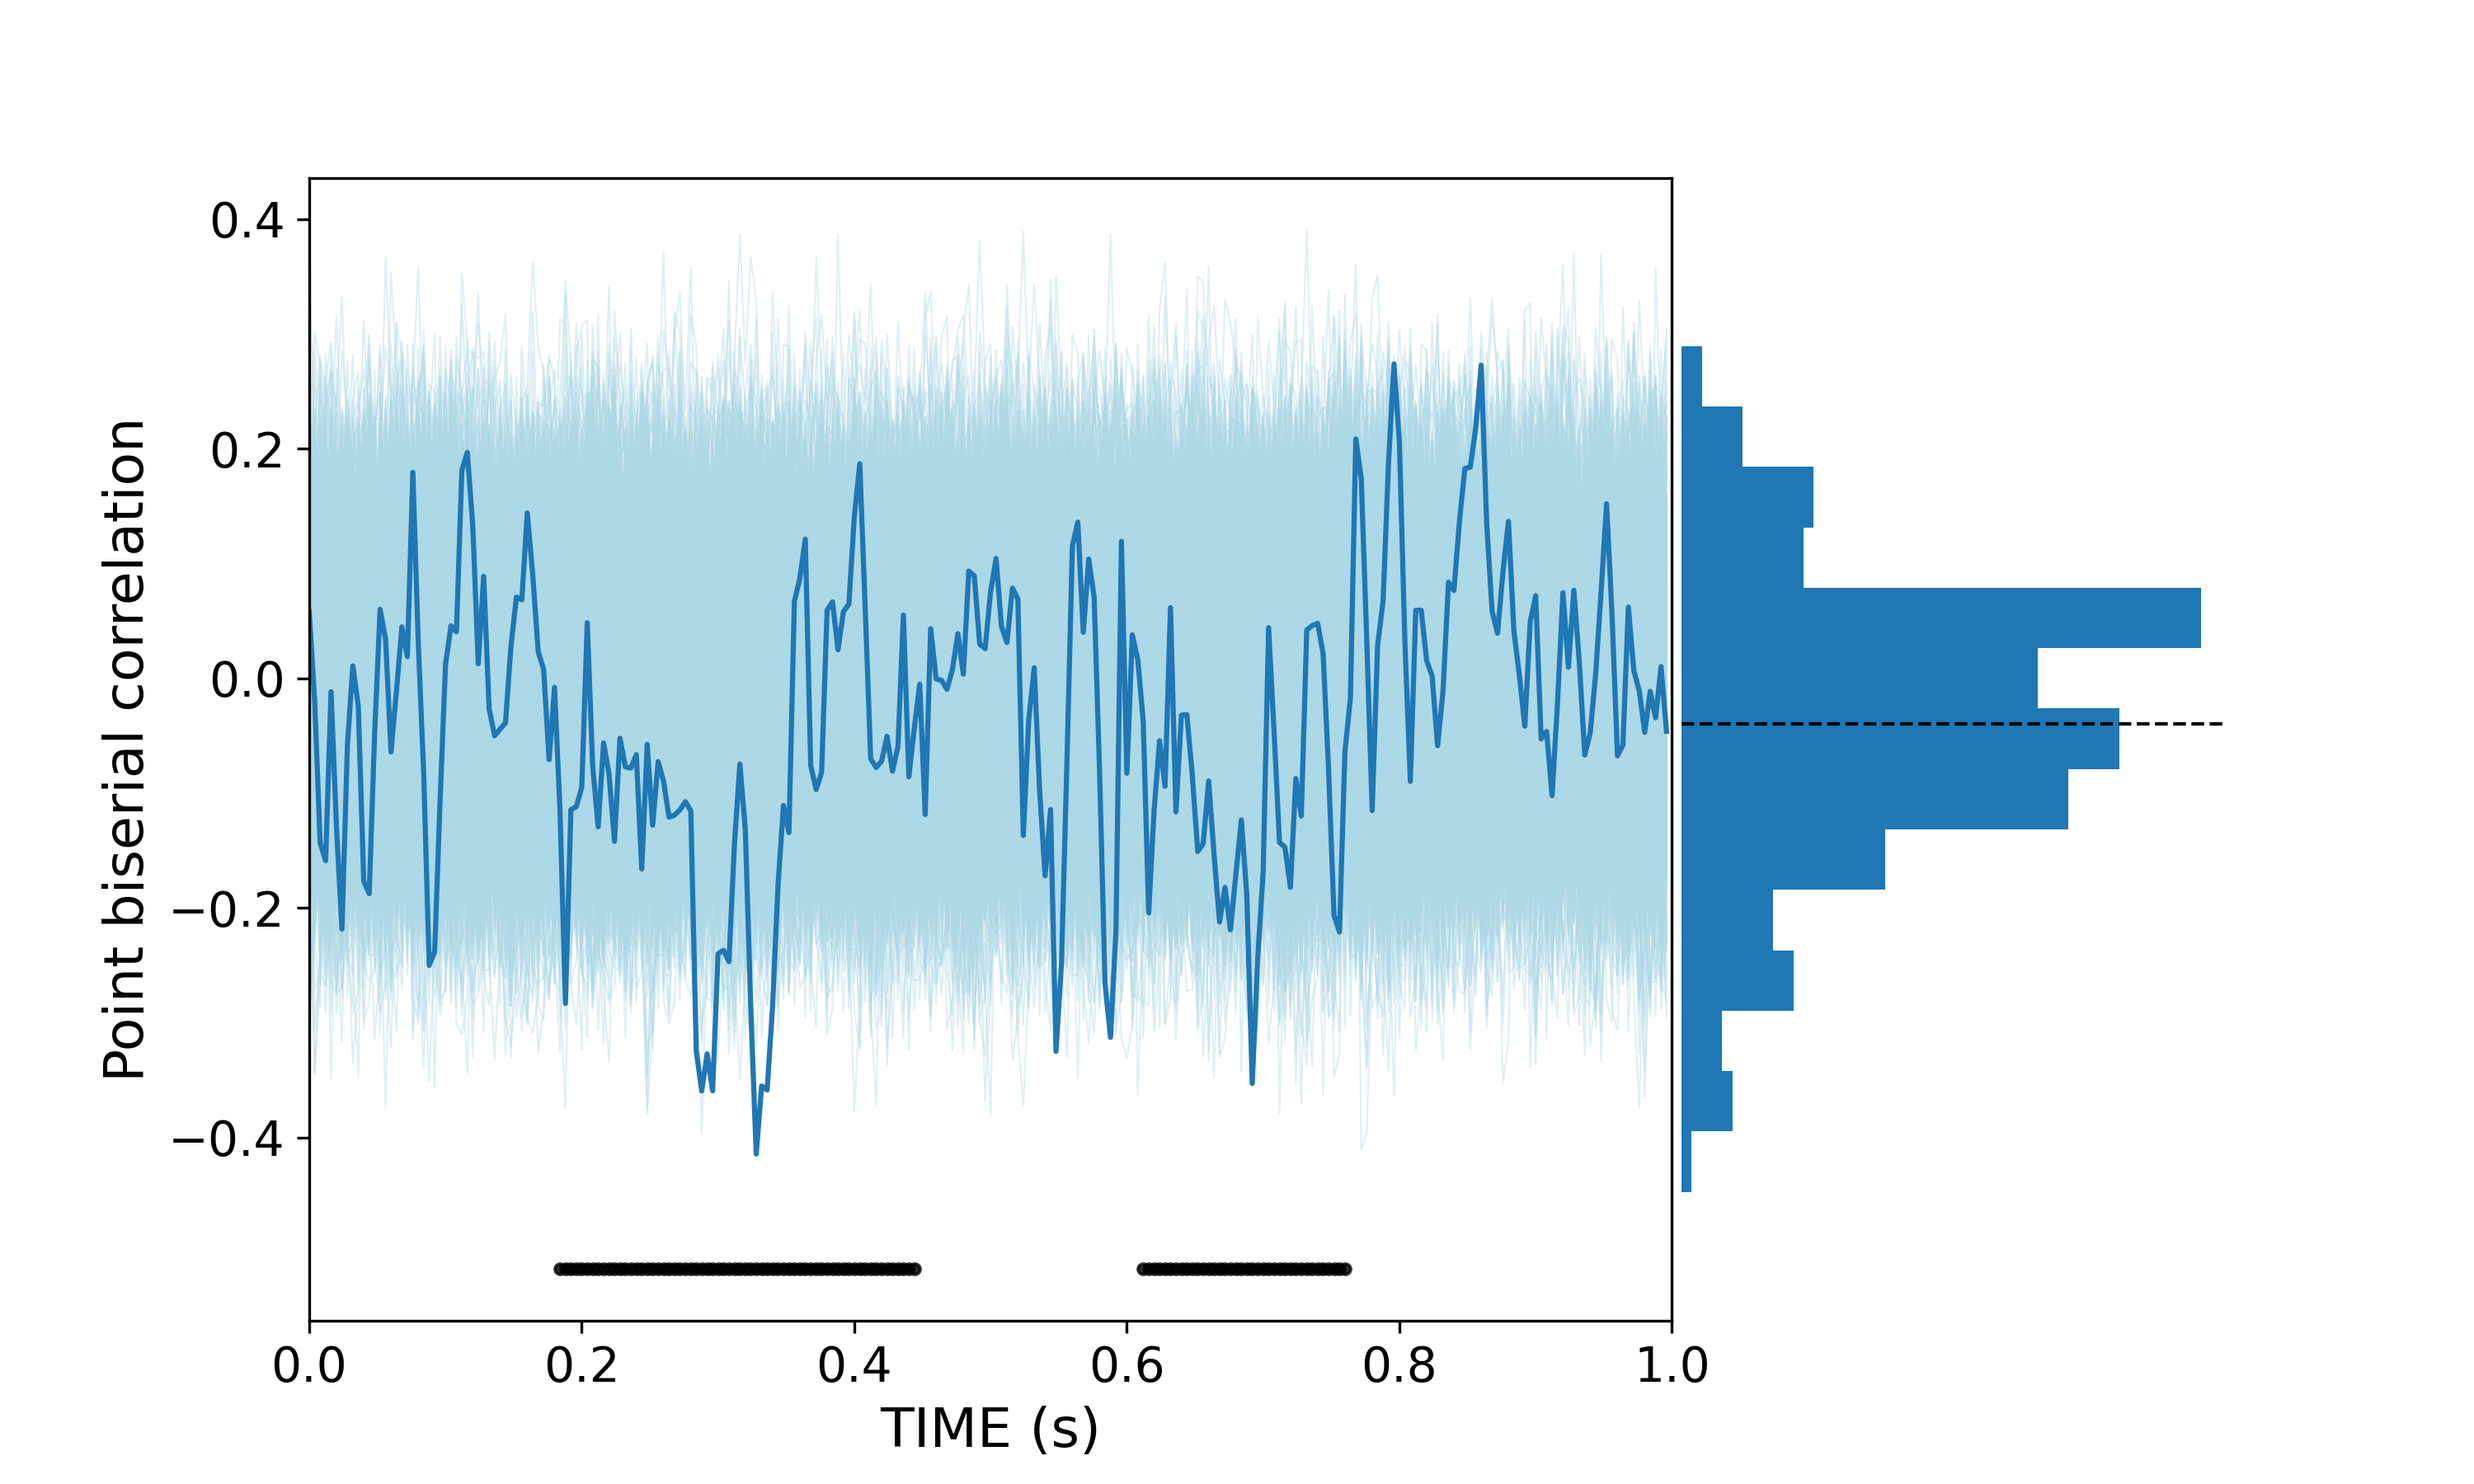
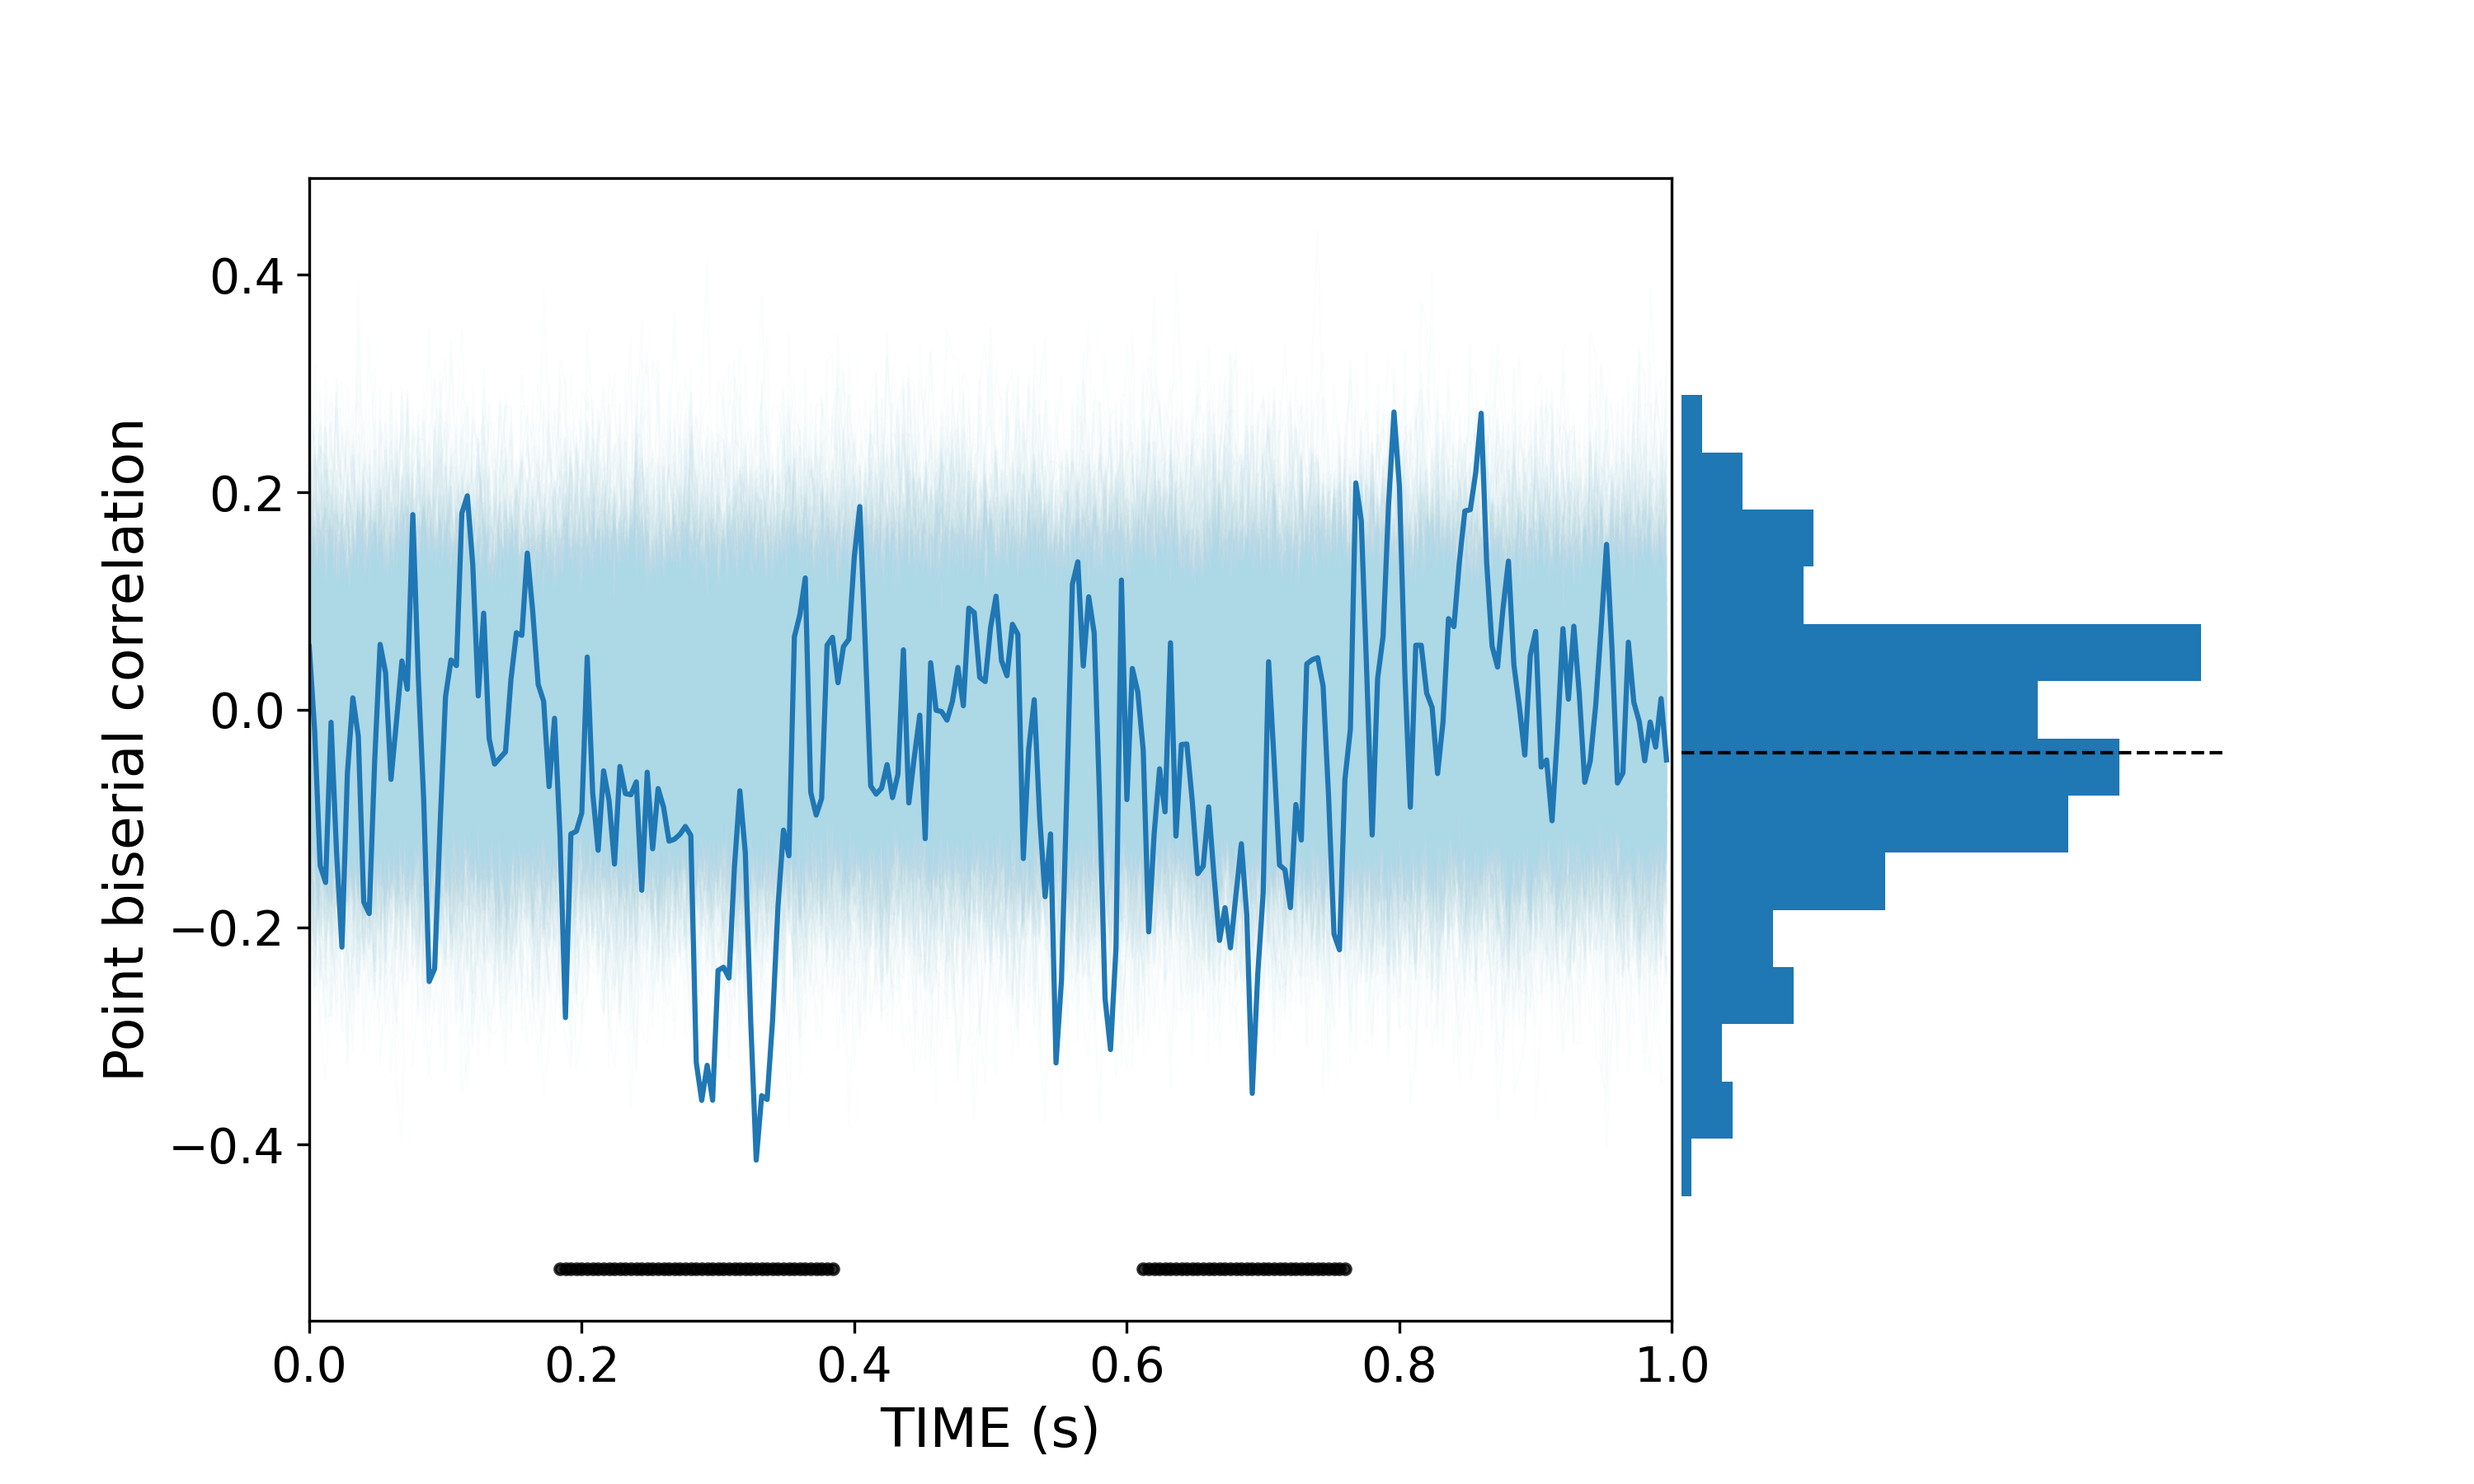
update plotting

diff --git a/decoding/cross_decoding/dist_acc_corr.py b/decoding/cross_decoding/dist_acc_corr.py
@@ -187,6 +187,8 @@ def plot_corr_hist_cond(acc, save_path = None, corr_color="C0", perm_color="ligh
         # set pvals of significant time points to 0
         pvals[sig_timepoints] = 0
 
+    print(sig_timepoints)
+
 
     # set up figure
     gs_kw = dict(width_ratios=[1, 0.4], height_ratios=[1], wspace=0.01, hspace=0.3)
@@ -195,9 +197,9 @@ def plot_corr_hist_cond(acc, save_path = None, corr_color="C0", perm_color="ligh
     bin_range = (-0.5, 0.5)
     bins = np.linspace(bin_range[0], bin_range[1], 20)
 
-    # plot permutations
+    # plot permutations with alpha according
     for perm in all_perm:
-        ax[0].plot(perm, color=perm_color, linewidth=0.5, alpha=0.4)
+        ax[0].plot(perm, color=perm_color, linewidth=0.5, alpha=0.05)
 
     plot_corr(ax[0], corr, pvals, alpha = alpha, color=corr_color)
     
@@ -278,6 +280,8 @@ def plot_corr_hist(acc, save_path = None, corr_color="C0", perm_color="lightblue
                 sig_timepoints = np.concatenate([clusters[i][0] for i in sig_clusters_idx])
             except:
                 sig_timepoints = []
+
+            print(sig_timepoints)
             
             # get pvals
             pvals = np.ones(X.shape[1])
@@ -323,20 +327,20 @@ if __name__ == "__main__":
     alpha = 0.05
 
     distance = "days"
-    plot_corr_hist(
-        acc = acc, 
-        distance=distance,
-        save_path = plot_path / f"corr_acc_dist_{distance}.png",
-        alpha = alpha,
-        cluster=True)
+    #plot_corr_hist(
+    #    acc = acc, 
+    #    distance=distance,
+    #    save_path = plot_path / f"corr_acc_dist_{distance}.png",
+    #    alpha = alpha,
+    #    cluster=True)
     
     distance = "session"
-    plot_corr_hist(
-        acc = acc, 
-        distance=distance,
-        save_path = plot_path / f"corr_acc_dist_{distance}.png",
-        alpha = alpha,
-        cluster=True)
+    #plot_corr_hist(
+    #    acc = acc, 
+    #    distance=distance,
+    #    save_path = plot_path / f"corr_acc_dist_{distance}.png",
+    #    alpha = alpha,
+    #    cluster=True)
 
     plot_corr_hist_cond(
         acc, 
